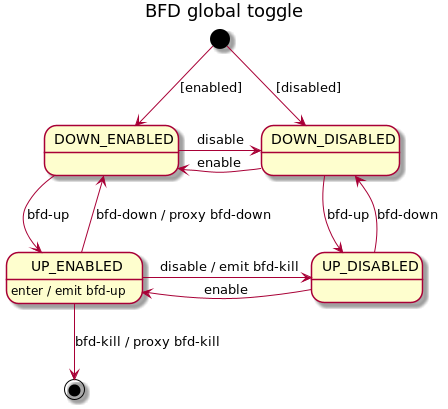
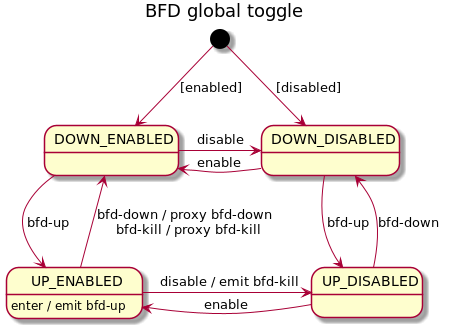
Emit BFD-kill notification at the start of BFD-session remove
To reenable other sources of ISL health checks we need to inform them
about BFD session end of life.

diff --git a/services/wfm/src/test/java/org/openkilda/wfm/topology/network/service/NetworkBfdPortServiceTest.java b/services/wfm/src/test/java/org/openkilda/wfm/topology/network/service/NetworkBfdPortServiceTest.java
@@ -1,0 +1,186 @@
+/* Copyright 2019 Telstra Open Source
+ *
+ *   Licensed under the Apache License, Version 2.0 (the "License");
+ *   you may not use this file except in compliance with the License.
+ *   You may obtain a copy of the License at
+ *
+ *       http://www.apache.org/licenses/LICENSE-2.0
+ *
+ *   Unless required by applicable law or agreed to in writing, software
+ *   distributed under the License is distributed on an "AS IS" BASIS,
+ *   WITHOUT WARRANTIES OR CONDITIONS OF ANY KIND, either express or implied.
+ *   See the License for the specific language governing permissions and
+ *   limitations under the License.
+ */
+
+package org.openkilda.wfm.topology.network.service;
+
+import static org.mockito.ArgumentMatchers.any;
+import static org.mockito.Mockito.reset;
+import static org.mockito.Mockito.verify;
+import static org.mockito.Mockito.verifyNoMoreInteractions;
+import static org.mockito.Mockito.when;
+
+import org.openkilda.messaging.floodlight.response.BfdSessionResponse;
+import org.openkilda.messaging.model.NoviBfdSession;
+import org.openkilda.model.BfdPort;
+import org.openkilda.model.Switch;
+import org.openkilda.model.SwitchId;
+import org.openkilda.persistence.PersistenceManager;
+import org.openkilda.persistence.TransactionManager;
+import org.openkilda.persistence.repositories.BfdPortRepository;
+import org.openkilda.persistence.repositories.RepositoryFactory;
+import org.openkilda.persistence.repositories.SwitchRepository;
+import org.openkilda.wfm.topology.network.model.Endpoint;
+import org.openkilda.wfm.topology.network.model.IslReference;
+import org.openkilda.wfm.topology.network.model.LinkStatus;
+
+import org.junit.Assert;
+import org.junit.Before;
+import org.junit.Test;
+import org.junit.runner.RunWith;
+import org.mockito.ArgumentCaptor;
+import org.mockito.Mock;
+import org.mockito.Mockito;
+import org.mockito.junit.MockitoJUnitRunner;
+
+import java.net.InetAddress;
+import java.net.UnknownHostException;
+import java.util.Optional;
+
+@RunWith(MockitoJUnitRunner.class)
+public class NetworkBfdPortServiceTest {
+    private static final int BFD_LOGICAL_PORT_OFFSET = 200;
+
+    private final Endpoint alphaEndpoint = Endpoint.of(new SwitchId(1), 1);
+    private final Endpoint alphaLogicalEndpoint = Endpoint.of(alphaEndpoint.getDatapath(),
+                                                              alphaEndpoint.getPortNumber() + BFD_LOGICAL_PORT_OFFSET);
+    private final Endpoint betaEndpoint = Endpoint.of(new SwitchId(2), 2);
+    private final Endpoint betaLogicalEndpoint = Endpoint.of(betaEndpoint.getDatapath(),
+                                                             betaEndpoint.getPortNumber() + BFD_LOGICAL_PORT_OFFSET);
+
+    @Mock
+    private PersistenceManager persistenceManager;
+
+    @Mock
+    private TransactionManager transactionManager;
+
+    @Mock
+    private SwitchRepository switchRepository;
+
+    @Mock
+    private BfdPortRepository bfdPortRepository;
+
+    @Mock
+    private IBfdPortCarrier carrier;
+
+    private NetworkBfdPortService service;
+
+    @Before
+    public void setUp() throws Exception {
+        RepositoryFactory repositoryFactory = Mockito.mock(RepositoryFactory.class);
+
+        when(repositoryFactory.createSwitchRepository()).thenReturn(switchRepository);
+        when(repositoryFactory.createBfdPortRepository()).thenReturn(bfdPortRepository);
+        when(persistenceManager.getRepositoryFactory()).thenReturn(repositoryFactory);
+
+        service = new NetworkBfdPortService(carrier, persistenceManager);
+    }
+
+    @Test
+    public void enableDisable() throws UnknownHostException {
+        String alphaAddress = "192.168.1.1";
+        String betaAddress = "192.168.1.2";
+        final String removeCallKey = "bfd-remove-speaker-key";
+
+        when(bfdPortRepository.findBySwitchIdAndPort(alphaEndpoint.getDatapath(), alphaEndpoint.getPortNumber()))
+                .thenReturn(Optional.empty());
+        when(switchRepository.findById(alphaEndpoint.getDatapath())).thenReturn(
+                Optional.of(Switch.builder()
+                                    .switchId(alphaEndpoint.getDatapath())
+                                    .address(alphaAddress)
+                                    .build()));
+        when(switchRepository.findById(betaEndpoint.getDatapath())).thenReturn(
+                Optional.of(Switch.builder()
+                                    .switchId(betaEndpoint.getDatapath())
+                                    .address(betaAddress)
+                                    .build()));
+
+        service.setup(alphaLogicalEndpoint, alphaEndpoint.getPortNumber());
+
+        reset(bfdPortRepository);
+
+        // setup BFD session
+        IslReference islReference = new IslReference(alphaEndpoint, betaEndpoint);
+        service.enable(alphaEndpoint, islReference);
+
+        service.updateLinkStatus(alphaLogicalEndpoint, LinkStatus.UP);
+
+        verify(bfdPortRepository).findBySwitchIdAndPort(
+                alphaLogicalEndpoint.getDatapath(), alphaLogicalEndpoint.getPortNumber());
+
+        ArgumentCaptor<BfdPort> bfdSessionCreateArgument = ArgumentCaptor.forClass(BfdPort.class);
+        verify(bfdPortRepository).createOrUpdate(bfdSessionCreateArgument.capture());
+
+        BfdPort bfdSessionDb = bfdSessionCreateArgument.getValue();
+        Assert.assertEquals(alphaLogicalEndpoint.getDatapath(), bfdSessionDb.getSwitchId());
+        Assert.assertEquals((Integer) alphaLogicalEndpoint.getPortNumber(), bfdSessionDb.getPort());
+        Assert.assertNotNull(bfdSessionDb.getDiscriminator());
+
+        ArgumentCaptor<NoviBfdSession> bfdSessionCreateSpeakerArgument = ArgumentCaptor.forClass(NoviBfdSession.class);
+        verify(carrier).setupBfdSession(bfdSessionCreateSpeakerArgument.capture());
+
+        NoviBfdSession speakerBfdSetup = bfdSessionCreateSpeakerArgument.getValue();
+        Assert.assertEquals(alphaEndpoint.getDatapath(), speakerBfdSetup.getTarget().getDatapath());
+        Assert.assertEquals(InetAddress.getByName(alphaAddress), speakerBfdSetup.getTarget().getInetAddress());
+        Assert.assertEquals(betaEndpoint.getDatapath(), speakerBfdSetup.getRemote().getDatapath());
+        Assert.assertEquals(InetAddress.getByName(betaAddress), speakerBfdSetup.getRemote().getInetAddress());
+        Assert.assertEquals(alphaEndpoint.getPortNumber(), speakerBfdSetup.getPhysicalPortNumber());
+        Assert.assertEquals(alphaLogicalEndpoint.getPortNumber(), speakerBfdSetup.getLogicalPortNumber());
+        Assert.assertEquals(bfdSessionDb.getDiscriminator(), (Integer) speakerBfdSetup.getDiscriminator());
+        Assert.assertTrue(speakerBfdSetup.isKeepOverDisconnect());
+
+        verify(carrier).bfdUpNotification(alphaEndpoint);
+
+        verifyNoMoreInteractions(carrier);
+        verifyNoMoreInteractions(bfdPortRepository);
+
+        reset(carrier);
+        reset(bfdPortRepository);
+
+        // remove BFD session
+        when(carrier.removeBfdSession(any(NoviBfdSession.class))).thenReturn(removeCallKey);
+
+        service.disable(alphaEndpoint);
+
+        verify(carrier).bfdKillNotification(alphaEndpoint);
+
+        ArgumentCaptor<NoviBfdSession> bfdSessionRemoveSpeakerArgument = ArgumentCaptor.forClass(NoviBfdSession.class);
+        verify(carrier).removeBfdSession(bfdSessionRemoveSpeakerArgument.capture());
+
+        NoviBfdSession speakerBfdRemove = bfdSessionRemoveSpeakerArgument.getValue();
+        Assert.assertEquals(speakerBfdSetup, speakerBfdRemove);
+
+        verifyNoMoreInteractions(carrier);
+        verifyNoMoreInteractions(bfdPortRepository);
+
+        reset(carrier);
+
+        // remove confirmation
+
+        when(bfdPortRepository.findBySwitchIdAndPort(alphaLogicalEndpoint.getDatapath(),
+                                                     alphaLogicalEndpoint.getPortNumber()))
+                .thenReturn(Optional.of(bfdSessionDb));
+
+        BfdSessionResponse speakerResponse = new BfdSessionResponse(speakerBfdRemove, null);
+        service.speakerResponse(removeCallKey, alphaLogicalEndpoint, speakerResponse);
+        service.updateLinkStatus(alphaLogicalEndpoint, LinkStatus.DOWN);
+
+        verify(bfdPortRepository).findBySwitchIdAndPort(alphaLogicalEndpoint.getDatapath(),
+                                                        alphaLogicalEndpoint.getPortNumber());
+        verify(bfdPortRepository).delete(bfdSessionDb);
+
+        verifyNoMoreInteractions(carrier);
+        verifyNoMoreInteractions(bfdPortRepository);
+    }
+}

diff --git a/services/wfm/src/main/java/org/openkilda/wfm/topology/network/controller/BfdPortFsm.java b/services/wfm/src/main/java/org/openkilda/wfm/topology/network/controller/BfdPortFsm.java
@@ -165,6 +165,8 @@ public final class BfdPortFsm extends
                 .from(BfdPortFsmState.ACTIVE).to(BfdPortFsmState.CLEANING).on(BfdPortFsmEvent.BI_ISL_MOVE);
         builder.transition()
                 .from(BfdPortFsmState.ACTIVE).to(BfdPortFsmState.HOUSEKEEPING).on(BfdPortFsmEvent.KILL);
+        builder.onExit(BfdPortFsmState.ACTIVE)
+                .callMethod("activeExit");
         builder.defineSequentialStatesOn(
                 BfdPortFsmState.ACTIVE,
                 BfdPortFsmState.UP, BfdPortFsmState.DOWN);
@@ -323,6 +325,11 @@ public final class BfdPortFsm extends
         linkStatus = LinkStatus.DOWN;
     }
 
+    public void activeExit(BfdPortFsmState from, BfdPortFsmState to, BfdPortFsmEvent event, BfdPortFsmContext context) {
+        logInfo("notify consumer(s) to STOP react on BFD event");
+        context.getOutput().bfdKillNotification(physicalEndpoint);
+    }
+
     public void upEnter(BfdPortFsmState from, BfdPortFsmState to, BfdPortFsmEvent event, BfdPortFsmContext context) {
         logInfo("LINK detected");
         linkStatus = LinkStatus.UP;
@@ -345,8 +352,6 @@ public final class BfdPortFsm extends
     public void housekeepingEnter(BfdPortFsmState from, BfdPortFsmState to, BfdPortFsmEvent event,
                                   BfdPortFsmContext context) {
         logInfo("perform housekeeping - release all resources");
-        context.getOutput().bfdKillNotification(physicalEndpoint);
-
         if (sessionDescriptor != null) {
             doBfdRemove(context);
         }

diff --git a/services/wfm/src/main/java/org/openkilda/wfm/topology/network/controller/BfdGlobalToggleFsm.java b/services/wfm/src/main/java/org/openkilda/wfm/topology/network/controller/BfdGlobalToggleFsm.java
@@ -72,7 +72,7 @@ public class BfdGlobalToggleFsm
                 .on(BfdGlobalToggleFsmEvent.BFD_DOWN)
                 .callMethod("emitBfdDown");
         builder.transition()
-                .from(BfdGlobalToggleFsmState.UP_ENABLED).to(BfdGlobalToggleFsmState.FINISH)
+                .from(BfdGlobalToggleFsmState.UP_ENABLED).to(BfdGlobalToggleFsmState.DOWN_ENABLED)
                 .on(BfdGlobalToggleFsmEvent.BFD_KILL)
                 .callMethod("emitBfdKill");
         builder.onEntry(BfdGlobalToggleFsmState.UP_ENABLED)
@@ -85,9 +85,6 @@ public class BfdGlobalToggleFsm
         builder.transition()
                 .from(BfdGlobalToggleFsmState.UP_DISABLED).to(BfdGlobalToggleFsmState.DOWN_DISABLED)
                 .on(BfdGlobalToggleFsmEvent.BFD_DOWN);
-
-        // FINISH
-        builder.defineFinalState(BfdGlobalToggleFsmState.FINISH);
     }
 
     public static FsmExecutor<BfdGlobalToggleFsm, BfdGlobalToggleFsmState, BfdGlobalToggleFsmEvent,
@@ -153,8 +150,7 @@ public class BfdGlobalToggleFsm
 
     public enum BfdGlobalToggleFsmState {
         DOWN_DISABLED, DOWN_ENABLED,
-        UP_DISABLED, UP_ENABLED,
-        FINISH
+        UP_DISABLED, UP_ENABLED
     }
 
     public enum BfdGlobalToggleFsmEvent {
